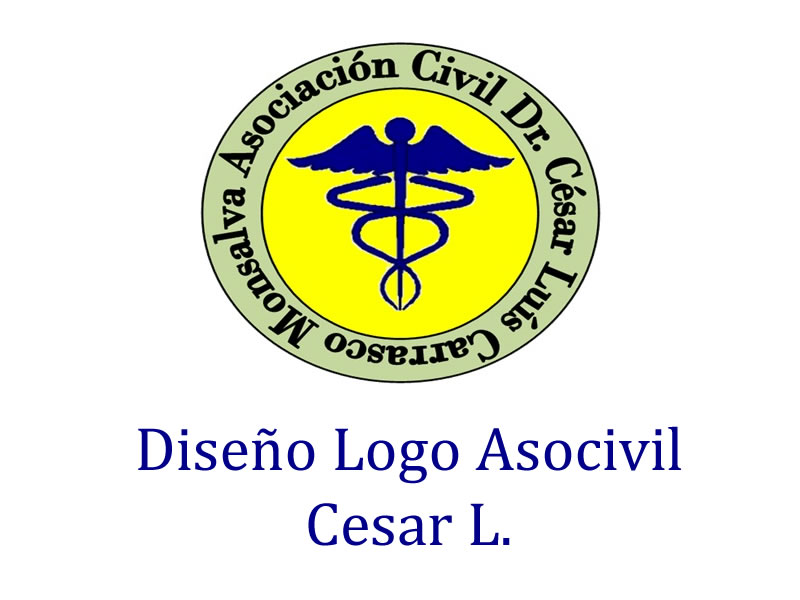
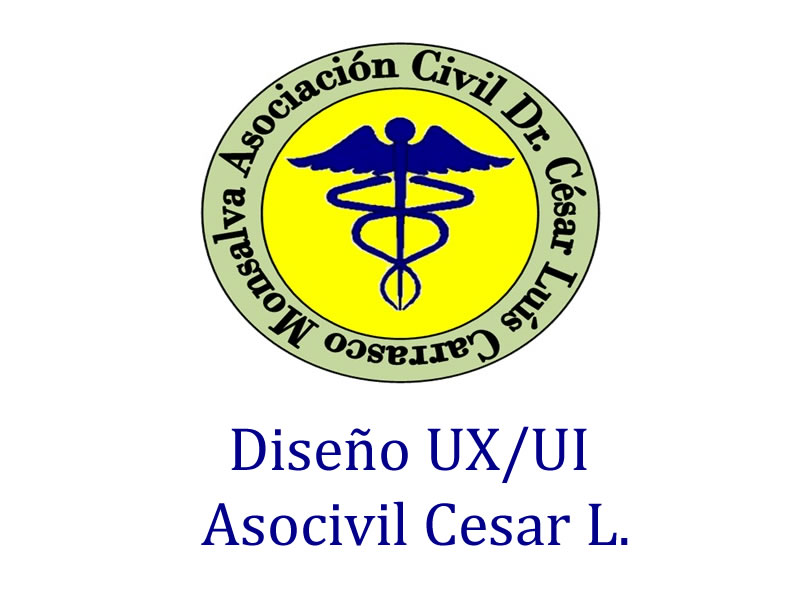
termine el codigo de mas detalles ddel portafolio

Changed region(s): [[0.1562, 0.69, 0.875, 0.81], [0.25, 0.84, 0.7812, 0.93]]

diff --git a/Portafolio/portfolio-details.php b/Portafolio/portfolio-details.php
@@ -1,3 +1,133 @@
+<?php
+
+$id = $_GET['id'];
+
+
+switch ($id) {
+  case '1':
+    $categoria = "Web";
+    $titulo    = "Web Asocivilcesarl.com";
+    $cliente   = "Asociacion Civil Dr. Cesar Luis Carrasco";
+    $img       = "assets/img/aplicacion-web-app-movil-desarrollador-fullstack.jpg";
+    $fecha     = "May - 2019";
+    $url       = "www.asocivilcesarl.com";
+    $link      = "http://" . $url;
+    $tecnologias = array(
+      '0' => 'HTML5',
+      '1' => 'PHP',
+      '2' => 'CSS',
+      '3' => 'Jquery',
+      '4' => 'AJAX',
+      '5' => 'Bootstrap',
+      '6' => 'GIT',
+      '7' => 'CMS',
+    );
+    $detalle   = "La ASOCIACIÓN CIVIL DR. CÉSAR LUIS CARRASCO MONSALVA. Fundada en el año 2003, por la 
+    iniciativa de un equipo multidisciplinario de profesionales, con la finalidad de Capacitar y 
+    Formar a nivel Nacional e Internacional, especialistas en diferentes áreas del conocimiento, 
+    capaces de impactar positivamente en el desarrollo económico, social, jurídico, educativo, asistencial, 
+    laboral tecnológico y otras disciplinas de vital importancia para el progreso de las naciones.";
+    break;
+  case '2':
+    $categoria = "Web";
+    $titulo    = "Web Eduardo Carrasco";
+    $cliente   = "Eduardo Carrasco";
+    $img       = "assets/img/eduardo-carrasco-fotografia-fotografo-web-desarrollo.jpg";
+    $fecha     = "Ene - 2020";
+    $url       = "eduardocarrasco.photography";
+    $link      = "http://" . $url;
+    $tecnologias = array(
+      '0' => 'HTML5',
+      '1' => 'PHP',
+      '2' => 'CSS',
+      '3' => 'Jquery',
+      '4' => 'AJAX',
+      '5' => 'Bootstrap',
+      '6' => 'GIT',
+      '7' => 'CMS',
+
+    );
+    $detalle   = "Mi Sitio web como fotógrafo profesional, donde informo sobre mis trabajos, los servicios
+      que ofrezco, además de publicar fotos de las sesiones realizadas a los distintos clientes. 
+      Cuenta con una sección de noticias   y una aplicación para solicitar cotizaciones online.";
+    break;
+  case '3':
+    $categoria = "App Web";
+    $titulo    = "Skyflot";
+    $cliente   = "Skyflot, C.A.";
+    $img       = "assets/img/app-web-programador-ux-ui.jpg";
+    $fecha     = "Feb - 2019";
+    $url       = "skyflot";
+    $link      = "https://www.skyflot.com";
+    $tecnologias = array(
+      '0' => 'PHP',
+      '1' => 'HTML5',
+      '2' => 'Jquery',
+      '3' => 'AJAX',
+      '4' => 'Bootstrap',
+      '5' => 'GIT',
+      '6' => 'CodeIgniter',
+      '7' => 'Mysql',
+      '8' => 'API',
+    );
+    $detalle   = "SKYFLOT es una marca líder en el mercado aeroportuario, que ofrece soluciones tecnológicas
+      a los procesos operativos y administrativos, atendiendo las necesidades de nuestros clientes de manera eficiente.
+      Se ha posicionado en el mercado por ser una extraordinaria herramienta que genera mayor rentabilidad, control y 
+      seguimiento efectivo del sector aeroportuario.
+      Actualmente se reconoce por su variedad de productos y servicios, tales como: SKYFLOT AVIACIÓN GENERAL, SKYFLOT
+      AVIACIÓN COMERCIAL, SKYFLOT COMERCIALIZACIÓN, SKYFLOT RECAUDACIÓN, entre otros.";
+    break;
+  case '4':
+    $categoria = "Diseño UX/UI";
+    $titulo    = "UX Asocivilcesarl.com";
+    $cliente   = "Asociacion Civil Dr. Cesar Luis Carrasco";
+    $img       = "assets/img/ux-ui-pruebas-usuarios-experiencia-interfaz.jpg";
+    $fecha     = "Abr - 2019";
+    $url       = "www.asocivilcesarl.com";
+    $link      = "http://" . $url;
+    $tecnologias = array(
+      '0' => 'Adobe XD',
+      '1' => 'Figma',
+      '2' => 'CSS',
+      '3' => 'Jquery',
+      '4' => 'HTML5',
+      '5' => 'Bootstrap',
+      '6' => 'GIT',
+    );
+    $detalle   = "Realice el diseño de la experiencia de usuarios (UX) para la plataforma web de La
+       ASOCIACIÓN CIVIL DR. CÉSAR LUIS CARRASCO MONSALVA. Fundada en el año 2003, donde se hizo un análisis 
+       previo al proyecto, se planifico la usabilidad y se probó la eficacia de los usuarios al interactuar 
+       con la plataforma,  de igual forma se diseñó la interface de usuario, como también se realizaron pruebas
+        con grupos de usuarios para determinar que la experiencia fuera la mejor.";
+    break;
+  case '5':
+    $categoria = "Diseño Logo";
+    $titulo    = "Logo Desarrollo Visionario";
+    $cliente   = "Desarrollo Visionario, C.A.";
+    $img       = "assets/img/ux-ui-pruebas-usuarios-experiencia-interfaz.jpg";
+    $fecha     = "Abr - 2019";
+    $url       = "N/A";
+    $link      = " ";
+    $tecnologias = array(
+      '0' => 'Adobe Photoshop',
+      '1' => 'adobe Ilustrator',
+    );
+    $detalle   = "Elabore el Diseño del logo y preste asesoramiento en la imagen corporativa de la empresa 
+    Desarrollo Visionario, la cual es una multinacional asociada con una compañía encargada de realizar 
+    edificaciones prefabricadas con materiales de alta calidad y a bajos costos.";
+    break;
+  default:
+    echo "<script type='text/javascript'>";
+
+    echo "window.history.back(-1)";
+
+    echo "</script>";
+
+    break;
+}
+
+
+?>
 <!DOCTYPE html>
 <html lang="en">
 
@@ -5,7 +135,7 @@
   <meta charset="utf-8">
   <meta content="width=device-width, initial-scale=1.0" name="viewport">
 
-  <title>Portfolio Details - iPortfolio Bootstrap Template</title>
+  <title>Detalle de Portafolio - <?php echo $titulo; ?></title>
   <meta content="" name="descriptison">
   <meta content="" name="keywords">
 
@@ -28,10 +158,9 @@
   <link href="assets/css/style.css" rel="stylesheet">
 
   <!-- =======================================================
-  * Template Name: iPortfolio - v1.2.1
-  * Template URL: https://bootstrapmade.com/iportfolio-bootstrap-portfolio-websites-template/
-  * Author: BootstrapMade.com
-  * License: https://bootstrapmade.com/license/
+  * Template Name: portafolio 1.1.0
+  * Template URL: https://eduardocarrasco.photography
+  * Author: C. Eduardo Carrasco
   ======================================================== -->
 </head>
 
@@ -45,25 +174,25 @@
     <div class="d-flex flex-column">
 
       <div class="profile">
-        <img src="assets/img/profile-img.jpg" alt="" class="img-fluid rounded-circle">
-        <h1 class="text-light"><a href="index.php">Alex Smith</a></h1>
+        <img src="assets/img/profile-img.jpg" alt="" class="img-fluid rounded-circle img-responsive">
+        <h1 class="text-light"><a href="index.php">C. Eduardo Carrasco</a></h1>
         <div class="social-links mt-3 text-center">
-          <a href="#" class="twitter"><i class="bx bxl-twitter"></i></a>
-          <a href="#" class="facebook"><i class="bx bxl-facebook"></i></a>
-          <a href="#" class="instagram"><i class="bx bxl-instagram"></i></a>
-          <a href="#" class="google-plus"><i class="bx bxl-skype"></i></a>
-          <a href="#" class="linkedin"><i class="bx bxl-linkedin"></i></a>
+          <a href="https://www.twitter.com/educamo" class="twitter"><i class="bx bxl-twitter"></i></a>
+          <a href="https://www.facebook.com/eduardo.carrasco.fotografo" class="facebook"><i class="bx bxl-facebook"></i></a>
+          <a href="https://www.instagram.com/educamo" class="instagram"><i class="bx bxl-instagram"></i></a>
+          <a href="https://skype.com/educamo" class="skype"><i class="bx bxl-skype"></i></a>
+          <a href="https://www.linkedin.com/in/educamo" class="linkedin"><i class="bx bxl-linkedin"></i></a>
         </div>
       </div>
 
       <nav class="nav-menu">
         <ul>
-          <li class="active"><a href="index.php"><i class="bx bx-home"></i> <span>Home</span></a></li>
-          <li><a href="#about"><i class="bx bx-user"></i> <span>About</span></a></li>
-          <li><a href="#resume"><i class="bx bx-file-blank"></i> <span>Resume</span></a></li>
-          <li><a href="#portfolio"><i class="bx bx-book-content"></i> Portfolio</a></li>
-          <li><a href="#services"><i class="bx bx-server"></i> Services</a></li>
-          <li><a href="#contact"><i class="bx bx-envelope"></i> Contact</a></li>
+          <li class="active"><a href="index.php"><i class="bx bx-home"></i> <span>Inicio</span></a></li>
+          <li><a href="index.php#about"><i class="bx bx-user"></i> <span>Acerca de mi</span></a></li>
+          <li><a href="index.php#resume"><i class="bx bx-file-blank"></i> <span>Resumen</span></a></li>
+          <li><a href="index.php#portfolio"><i class="bx bx-book-content"></i> Portafolio</a></li>
+          <li><a href="index.php#services"><i class="bx bx-server"></i> Servicios</a></li>
+          <li><a href="index.php#contact"><i class="bx bx-envelope"></i> Contacto</a></li>
 
         </ul>
       </nav><!-- .nav-menu -->
@@ -79,10 +208,10 @@
       <div class="container">
 
         <div class="d-flex justify-content-between align-items-center">
-          <h2>Portfoio Details</h2>
+          <h2>Detalles de Portafolio</h2>
           <ol>
-            <li><a href="index.php">Home</a></li>
-            <li>Portfoio Details</li>
+            <li><a href="index.php">Inicio</a></li>
+            <li id="titulo"><?php echo $titulo; ?></li>
           </ol>
         </div>
 
@@ -95,28 +224,46 @@
 
         <div class="portfolio-details-container">
 
-          <div class="owl-carousel portfolio-details-carousel">
-            <img src="assets/img/portfolio-details-1.jpg" class="img-fluid" alt="">
-            <img src="assets/img/portfolio-details-2.jpg" class="img-fluid" alt="">
-            <img src="assets/img/portfolio-details-3.jpg" class="img-fluid" alt="">
+          <div class="">
+            <img id="imagen" src="<?php echo $img; ?>" class="img-fluid" alt="">
           </div>
 
           <div class="portfolio-info">
-            <h3>Project information</h3>
+            <h3>Informacion del Proyecto</h3>
             <ul>
-              <li><strong>Category</strong>: Web design</li>
-              <li><strong>Client</strong>: ASU Company</li>
-              <li><strong>Project date</strong>: 01 March, 2020</li>
-              <li><strong>Project URL</strong>: <a href="#">www.example.com</a></li>
+              <li><strong>Categoria</strong>: <?php echo $categoria; ?></li>
+              <li><strong>Cliente</strong>: <?php echo $cliente; ?></li>
+              <li><strong>Fecha del Proyecto</strong>: <?php echo $fecha; ?></li>
+              <li><strong>URL del Proyecto</strong>: <a href="<?php echo $link; ?>" <?php if ($link != " ") {
+                                                                                    ?> target="blank" <?php } ?>><?php echo $url; ?></a></li>
             </ul>
           </div>
 
         </div>
 
         <div class="portfolio-description">
-          <h2>This is an example of portfolio detail</h2>
+          <h2>Detalles del Proyecto</h2>
           <p>
-            Autem ipsum nam porro corporis rerum. Quis eos dolorem eos itaque inventore commodi labore quia quia. Exercitationem repudiandae officiis neque suscipit non officia eaque itaque enim. Voluptatem officia accusantium nesciunt est omnis tempora consectetur dignissimos. Sequi nulla at esse enim cum deserunt eius.
+            <div id="detalle" class="row">
+              <div class="col-md-6"><?php echo $detalle; ?></div>
+              <div class="col-md-6">
+                <h3>Tecnologias Utilizadas:</h3>
+                <ul>
+
+                  <div class="row">
+                    <?php foreach ($tecnologias as $t) {
+                    ?>
+                      <div class="col-md-6">
+                        <li><?php echo $t; ?></li>
+                      </div>
+
+                    <?php
+                    }
+                    ?>
+                  </div>
+                </ul>
+              </div>
+            </div>
           </p>
         </div>
 
@@ -129,14 +276,11 @@
   <footer id="footer">
     <div class="container">
       <div class="copyright">
-        &copy; Copyright <strong><span>iPortfolio</span></strong>
+        &copy; Copyright <strong><span><?php echo date("Y"); ?></span></strong>
       </div>
       <div class="credits">
-        <!-- All the links in the footer should remain intact. -->
-        <!-- You can delete the links only if you purchased the pro version. -->
-        <!-- Licensing information: https://bootstrapmade.com/license/ -->
-        <!-- Purchase the pro version with working PHP/AJAX contact form: https://bootstrapmade.com/iportfolio-bootstrap-portfolio-websites-template/ -->
-        Designed by <a href="https://bootstrapmade.com/">BootstrapMade</a>
+
+        Designed by <a href="http://eduardocarrasco.photography">Eduardo Carrasco</a>
       </div>
     </div>
   </footer><!-- End  Footer -->

diff --git a/Portafolio/index.php b/Portafolio/index.php
@@ -28,10 +28,9 @@
   <link href="assets/css/style.css" rel="stylesheet">
 
   <!-- =======================================================
-  * Template Name: iPortfolio - v1.2.1
-  * Template URL: https://bootstrapmade.com/iportfolio-bootstrap-portfolio-websites-template/
-  * Author: BootstrapMade.com
-  * License: https://bootstrapmade.com/license/
+  * Template Name: portafolio 1.1.0
+  * Template URL: https://eduardocarrasco.photography
+  * Author: C. Eduardo Carrasco
   ======================================================== -->
 </head>
 
@@ -47,11 +46,6 @@
       <div class="profile">
         <img src="assets/img/profile-img.jpg" alt="" class="img-fluid rounded-circle img-responsive">
         <h1 class="text-light"><a href="index.php">C. Eduardo Carrasco</a></h1>
-        <div class="wave">
-          <div style="height: 25px; width: 100%; overflow: hidden; top: 0px; margin-bottom: 5px;"><svg viewBox="0 0 500 150" preserveAspectRatio="none" style="height: 100%; width: 100%;">
-              <path d="M-39.23,75.48 C201.74,239.30 358.07,-1.48 500.00,49.98 L500.00,150.00 L0.00,150.00 Z" style="stroke: none; fill: #08f;"></path>
-            </svg></div>
-        </div>
         <div class="social-links mt-3 text-center">
           <a href="https://www.twitter.com/educamo" class="twitter"><i class="bx bxl-twitter"></i></a>
           <a href="https://www.facebook.com/eduardo.carrasco.fotografo" class="facebook"><i class="bx bxl-facebook"></i></a>
@@ -815,7 +809,7 @@
               <img src="assets/img/portfolio/asocivilcesarl_responsive.jpg" class="img-fluid" alt="asocivilcesarl">
               <div class="portfolio-links">
                 <a href="http://www.asocivilcesarl.com" target="_blank" title="Web Asocivilcesarl.com"><i class="bx bx-link"></i></a>
-                <a href="portfolio-details.php" title="More Details"><i class="bx bx-plus"></i></a>
+                <a href="portfolio-details.php?id=1" title="Más Detalle"><i class="bx bx-plus"></i></a>
               </div>
             </div>
           </div>
@@ -825,17 +819,17 @@
               <img src="assets/img/portfolio/eduardocarrascophotography_responsive.jpg" class="img-fluid" alt="eduardocarrasco.photography">
               <div class="portfolio-links">
                 <a href="http://www.eduardocarrasco.photography/" target="_blank" title="Web eduardocarrasco.photography"><i class="bx bx-link"></i></a>
-                <a href="portfolio-details.php" title="More Details"><i class="bx bx-plus"></i></a>
+                <a href="portfolio-details.php?id=2" title="Más Detalle"><i class="bx bx-plus"></i></a>
               </div>
             </div>
           </div>
 
           <div class="col-lg-3 col-md-4 portfolio-item filter-app">
             <div class="portfolio-wrap">
-              <img src="assets/img/portfolio/skyflot_systems.jpg" class="img-fluid" alt="">
+              <img src="assets/img/portfolio/skyflot_systems.jpg" class="img-fluid" alt="Sistema de Gestion Aeropuertaria Skyflot">
               <div class="portfolio-links">
-                <a href="assets/img/portfolio/skyflot_systems.jpg" data-gall="portfolioGallery" class="venobox" title="App 2"><i class="bx bx-link"></i></a>
-                <a href="portfolio-details.php" title="More Details"><i class="bx bx-plus"></i></a>
+                <a href="http://www.skyflot.com" target="_blank" title="App Web Skyflot"><i class="bx bx-link"></i></a>
+                <a href="portfolio-details.php?id=3" title="Más Detalle"><i class="bx bx-plus"></i></a>
               </div>
             </div>
           </div>
@@ -845,7 +839,7 @@
               <img src="assets/img/portfolio/log_desarrollo_visioanrio.jpg" class="img-fluid" alt="Diseño Logo Desarrollo Visionario">
               <div class="portfolio-links">
                 <a href="assets/img/portfolio/log_desarrollo_visioanrio.jpg" data-gall="portfolioGallery" class="venobox" title="Logo Desarrollo Visionario"><i class="bx bx-link"></i></a>
-                <a href="portfolio-details.php" title="More Details"><i class="bx bx-plus"></i></a>
+                <a href="portfolio-details.php?id=5" title="Más Detalle"><i class="bx bx-plus"></i></a>
               </div>
             </div>
           </div>
@@ -855,17 +849,17 @@
               <img src="assets/img/portfolio/portfolio-6.jpg" class="img-fluid" alt="">
               <div class="portfolio-links">
                 <a href="assets/img/portfolio/portfolio-6.jpg" data-gall="portfolioGallery" class="venobox" title="App 3"><i class="bx bx-plus"></i></a>
-                <a href="portfolio-details.php" title="More Details"><i class="bx bx-link"></i></a>
+                <a href="portfolio-details.php?id=" title="Más Detalle"><i class="bx bx-link"></i></a>
               </div>
             </div>
           </div>
 
           <div class="col-lg-3 col-md-4 portfolio-item filter-card">
             <div class="portfolio-wrap">
-              <img src="assets/img/portfolio/log_asocivil_cesarl.jpg" class="img-fluid" alt="Deseño Logo Asocivil Cesar Luis Carrasco Monsalva">
+              <img src="assets/img/portfolio/log_asocivil_cesarl.jpg" class="img-fluid" alt="Diseño UX/UI Asocivil Cesar Luis Carrasco Monsalva">
               <div class="portfolio-links">
-                <a href="assets/img/portfolio/log_asocivil_cesarl.jpg" data-gall="portfolioGallery" class="venobox" title="Card 1"><i class="bx bx-link"></i></a>
-                <a href="portfolio-details.php" title="More Details"><i class="bx bx-plus"></i></a>
+                <a href="assets/img/portfolio/log_asocivil_cesarl.jpg" data-gall="portfolioGallery" class="venobox" title="UX/UI Asocivil Cesar Luis Carrasco Monsalva"><i class="bx bx-link"></i></a>
+                <a href="portfolio-details.php?id=4" title="Más Detalle"><i class="bx bx-plus"></i></a>
               </div>
             </div>
           </div>
@@ -1083,10 +1077,6 @@
         &copy; Copyright <strong><span><?php echo date("Y"); ?></span></strong>
       </div>
       <div class="credits">
-        <!-- All the links in the footer should remain intact. -->
-        <!-- You can delete the links only if you purchased the pro version. -->
-        <!-- Licensing information: https://bootstrapmade.com/license/ -->
-        <!-- Purchase the pro version with working PHP/AJAX contact form: https://bootstrapmade.com/iportfolio-bootstrap-portfolio-websites-template/ -->
         Designed by <a href="http://eduardocarrasco.photography">Eduardo Carrasco</a>
       </div>
     </div>
